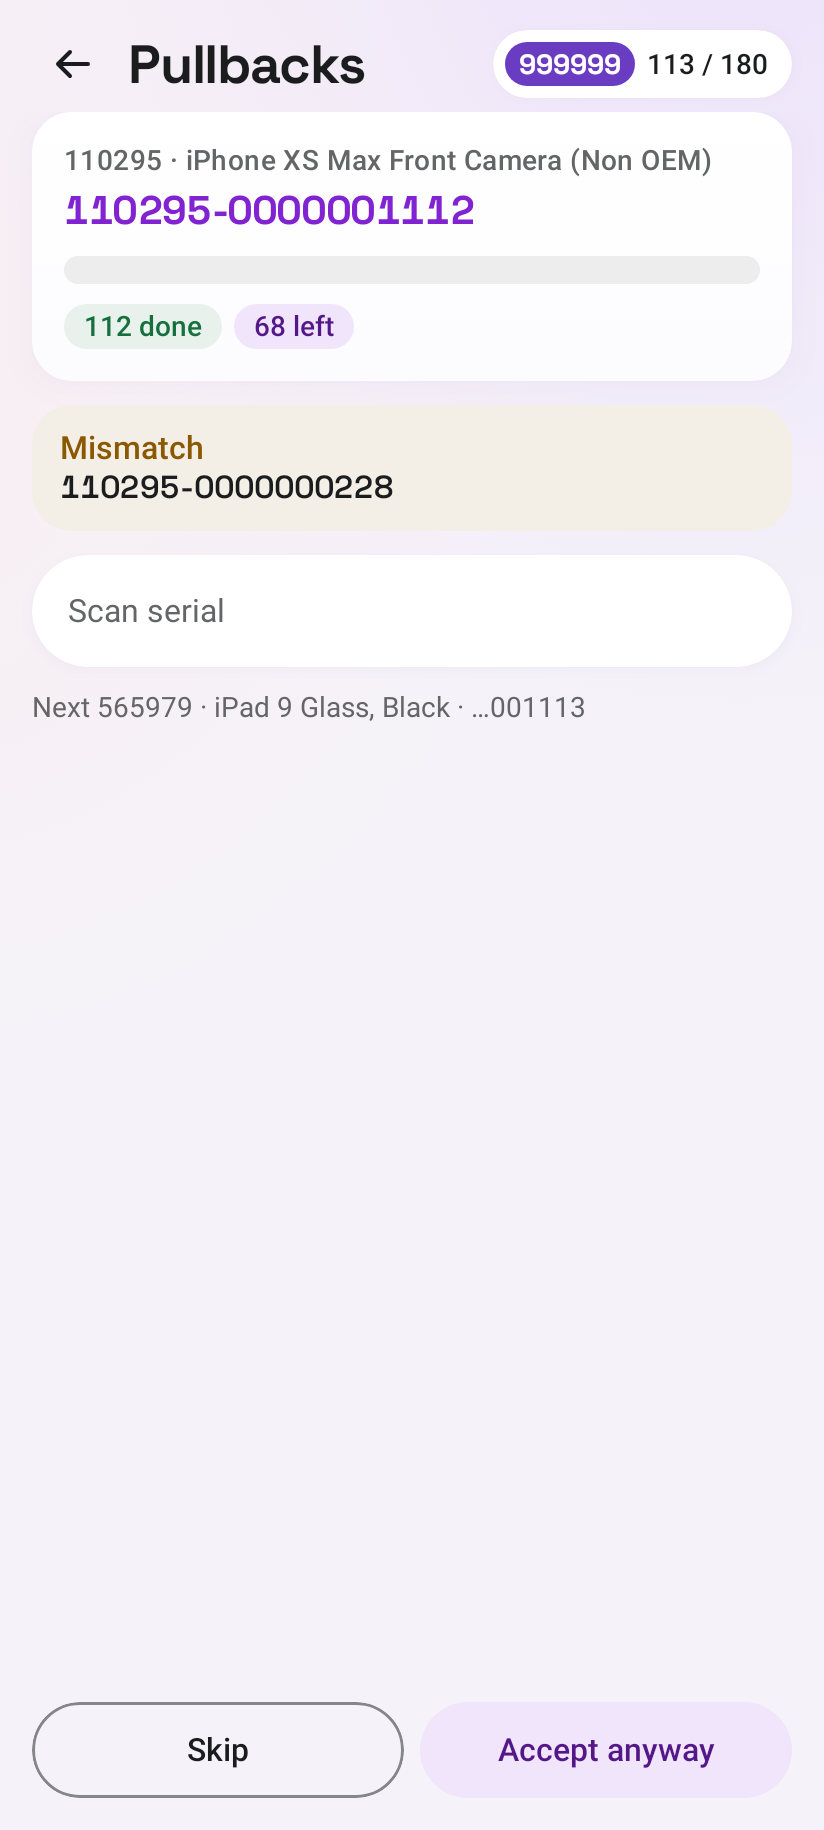
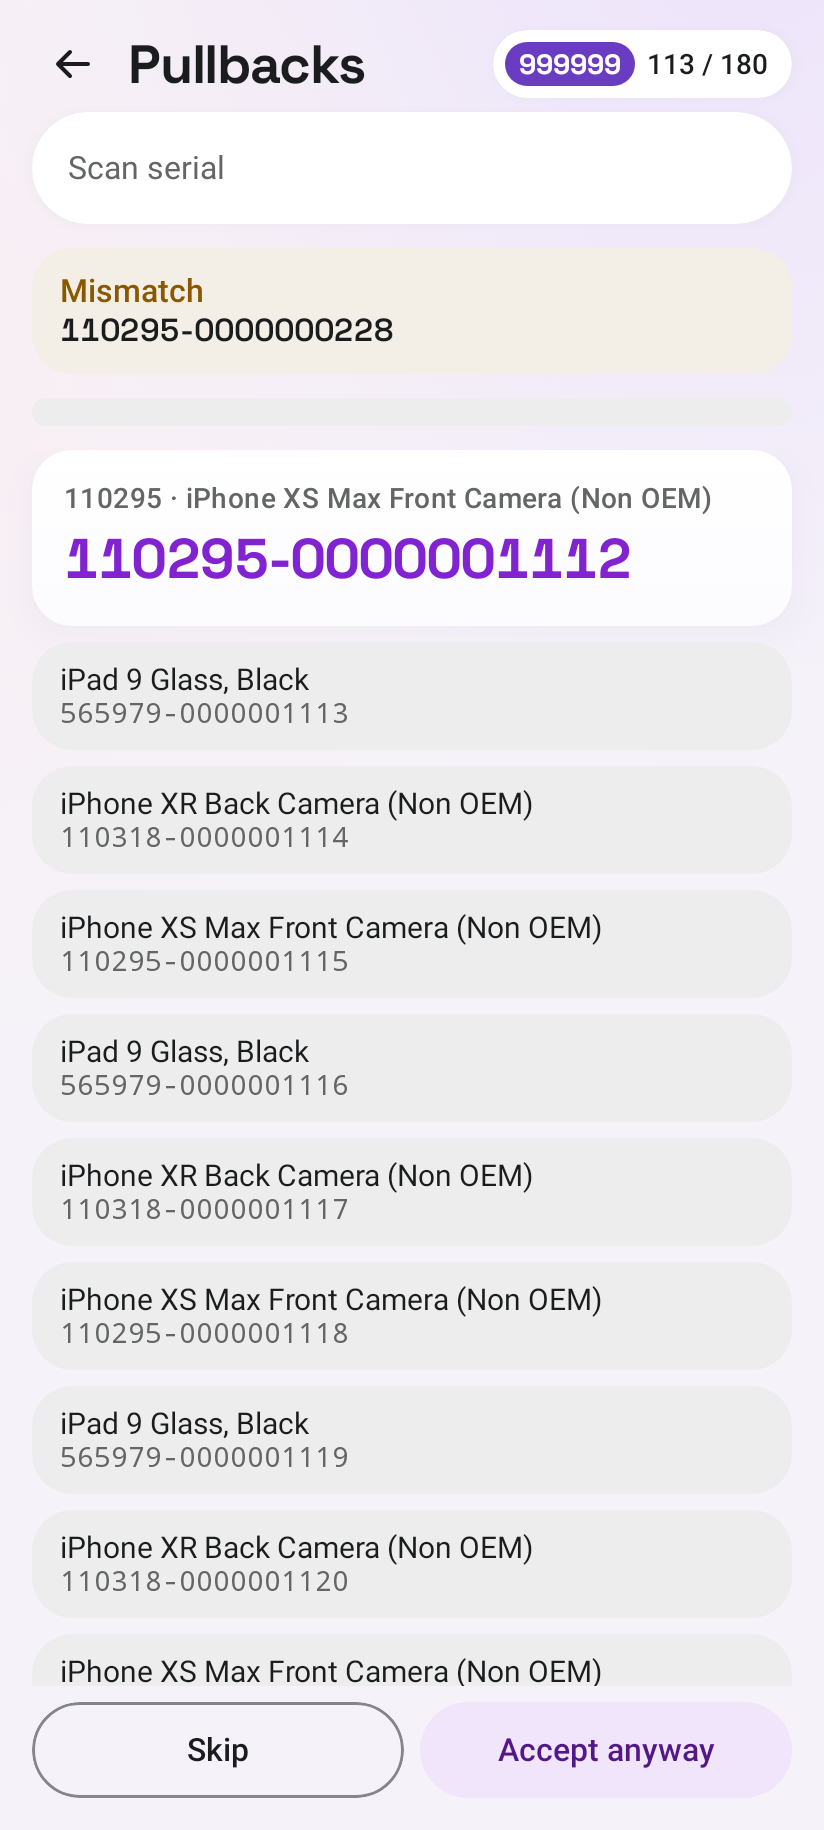
Linkpearl 1.2.3: Pullbacks scans down a snapping list
The scan screen lists the whole run in file order: the current item is
the large row at the top, the next ones below, and pulling down shows the
ones already scanned. Rows snap; after a good scan the camera rests a
quarter second while the row ticks green and the list scrolls to the
next item.

Claude-Session: https://claude.ai/code/session_01BARgE4WkzmvbXTzFB6QbQ7

diff --git a/android/app/src/main/kotlin/dev/aethernet/linkpearl/feature/pullbacks/PullbackScreen.kt b/android/app/src/main/kotlin/dev/aethernet/linkpearl/feature/pullbacks/PullbackScreen.kt
@@ -1,5 +1,19 @@
 package dev.aethernet.linkpearl.feature.pullbacks
 
+import androidx.compose.animation.animateColorAsState
+import androidx.compose.animation.core.Spring
+import androidx.compose.animation.core.animateFloatAsState
+import androidx.compose.animation.core.spring
+import androidx.compose.animation.core.tween
+import androidx.compose.foundation.gestures.snapping.SnapPosition
+import androidx.compose.foundation.gestures.snapping.rememberSnapFlingBehavior
+import androidx.compose.foundation.layout.PaddingValues
+import androidx.compose.foundation.layout.size
+import androidx.compose.foundation.lazy.LazyColumn
+import androidx.compose.foundation.lazy.itemsIndexed
+import androidx.compose.foundation.lazy.rememberLazyListState
+import androidx.compose.material3.Icon
+import androidx.compose.ui.graphics.graphicsLayer
 import androidx.compose.foundation.background
 import androidx.compose.foundation.border
 import androidx.compose.foundation.clickable
@@ -96,14 +110,18 @@ fun PullbackScreen(
     val navInset = LocalNavInset.current
     Column(modifier.fillMaxSize()) {
         Header(state, actions.onBack)
-        Column(
+        if (state is PbUi.Scanning) {
+            Column(Modifier.weight(1f).fillMaxWidth().padding(horizontal = LpSpacing.Gutter), verticalArrangement = Arrangement.spacedBy(LpSpacing.M)) {
+                ScanBody(state.s, actions, camera)
+            }
+        } else Column(
             Modifier.weight(1f).fillMaxWidth().verticalScroll(rememberScrollState()).padding(horizontal = LpSpacing.Gutter).padding(bottom = LpSpacing.M),
             verticalArrangement = Arrangement.spacedBy(LpSpacing.M),
         ) {
             when (state) {
                 is PbUi.Start -> StartBody(state, actions)
                 is PbUi.Stores -> StoresBody(state, actions)
-                is PbUi.Scanning -> ScanBody(state.s, actions, camera)
+                is PbUi.Scanning -> {}
                 is PbUi.Done -> DoneBody(state.s)
             }
         }
@@ -211,45 +229,87 @@ private fun ColumnScope.StoresBody(state: PbUi.Stores, actions: PullbackActions)
 }
 
 // ---------------------------------------------------------------- scanning
+/** After a good scan the camera rests this long while the row ticks and the list moves on. */
+internal const val SCAN_REST_MS = 250L
+
+/**
+ * The run as a list in file order, snapping row by row: the current item is the large row at the top, the next ones below it, and
+ * pulling down shows the ones already scanned. After each scan the list scrolls smoothly to the new current item.
+ */
 @Composable
 private fun ColumnScope.ScanBody(s: PbSession, actions: PullbackActions, camera: (@Composable (String, (String) -> Unit) -> Unit)?) {
     val c = Lp.colors
-    val it = s.current ?: return
+    val cur = s.current ?: return
+    val i = s.idx ?: return
     val haptics = rememberHaptics()
     var typing by remember { mutableStateOf(camera == null) }
+    var restUntil by remember { mutableStateOf(0L) }
     LaunchedEffect(s.history.size, s.msg) {
         when {
             s.msg == PbMsg.Mismatch -> haptics.reject()
-            s.lastOk -> haptics.confirm()
+            s.lastOk -> { haptics.confirm(); restUntil = System.currentTimeMillis() + SCAN_REST_MS }
         }
     }
     if (camera != null && !typing) {
-        Box(Modifier.fillMaxWidth().height(210.dp).clip(LpShapes.Card)) { camera(it.serial, actions.onScan) }
-    }
-    LpCard {
-        Text(listOf(it.skuText, it.description).filter { t -> t.isNotBlank() }.joinToString(" · "), style = LpType.Label, color = c.soft, maxLines = 2, overflow = TextOverflow.Ellipsis)
-        Text(it.serial, style = LpType.ValueMedium, color = c.accText, modifier = Modifier.padding(top = 4.dp).semantics { contentDescription = "Expected serial ${it.serial}" })
-        ProgressBar((s.total - s.pending).toFloat() / s.total.coerceAtLeast(1), c.acc, Modifier.fillMaxWidth().padding(top = 10.dp))
-        FlowRow(Modifier.padding(top = 10.dp), horizontalArrangement = Arrangement.spacedBy(6.dp), verticalArrangement = Arrangement.spacedBy(6.dp)) {
-            LpChip("${Fmt.count(s.done)} done", tone = Tone.Good)
-            LpChip("${Fmt.count(s.pending)} left", tone = Tone.Accent)
-            if (s.count(PbStatus.Skipped) > 0) LpChip("${Fmt.count(s.count(PbStatus.Skipped))} skipped", tone = Tone.Warn)
+        Box(Modifier.fillMaxWidth().height(180.dp).clip(LpShapes.Card)) {
+            camera(cur.serial) { code -> if (System.currentTimeMillis() >= restUntil) actions.onScan(code) }
         }
     }
+    if (typing || camera == null) ScanField(s.history.size to s.msg, actions.onScan)
     when (s.msg) {
         PbMsg.Mismatch -> Message("Mismatch", s.last, bad = true)
         PbMsg.Empty -> Message("Empty scan", null)
         PbMsg.Reverted -> Message("Reverted", null)
         null -> {}
     }
-    if (typing || camera == null) ScanField(s.history.size to s.msg, actions.onScan)
-    s.next?.let { nx ->
-        Text("Next ${nx.skuText} · ${nx.description} · …${nx.serial.takeLast(6)}", style = LpType.Caption, color = c.soft, maxLines = 2, overflow = TextOverflow.Ellipsis)
+    Row(Modifier.fillMaxWidth(), verticalAlignment = Alignment.CenterVertically, horizontalArrangement = Arrangement.spacedBy(10.dp)) {
+        ProgressBar((s.total - s.pending).toFloat() / s.total.coerceAtLeast(1), c.acc, Modifier.weight(1f))
+        if (s.count(PbStatus.Skipped) > 0) LpChip("${Fmt.count(s.count(PbStatus.Skipped))} skipped", tone = Tone.Warn)
+        if (camera != null) LpIconButton(if (typing) LpIcons.Camera else LpIcons.Keyboard, if (typing) "Camera" else "Type", { typing = !typing })
     }
-    if (camera != null) {
-        Row(Modifier.fillMaxWidth(), horizontalArrangement = Arrangement.End) {
-            LpIconButton(if (typing) LpIcons.Camera else LpIcons.Keyboard, if (typing) "Camera" else "Type", { typing = !typing })
+    val list = rememberLazyListState(initialFirstVisibleItemIndex = i)
+    LaunchedEffect(i) { list.animateScrollToItem(i) }
+    LazyColumn(
+        Modifier.weight(1f).fillMaxWidth(),
+        state = list,
+        flingBehavior = rememberSnapFlingBehavior(list, SnapPosition.Start),
+        verticalArrangement = Arrangement.spacedBy(8.dp),
+        contentPadding = PaddingValues(bottom = 400.dp),
+    ) {
+        itemsIndexed(s.items, key = { k, _ -> k }) { k, item ->
+            if (k == i) CurrentRow(item) else ItemRow(item)
         }
+    }
+}
+
+@Composable
+private fun CurrentRow(it: PbItem) {
+    val c = Lp.colors
+    LpCard {
+        Text(listOf(it.skuText, it.description).filter { t -> t.isNotBlank() }.joinToString(" · "), style = LpType.Label, color = c.soft, maxLines = 2, overflow = TextOverflow.Ellipsis)
+        Text(it.serial, style = LpType.Value, color = c.accText, modifier = Modifier.padding(top = 4.dp).semantics { contentDescription = "Expected serial ${it.serial}" })
+    }
+}
+
+/** A row that isn't the current one; a scanned row turns green with a tick that springs in. */
+@Composable
+private fun ItemRow(it: PbItem) {
+    val c = Lp.colors
+    val done = it.status == PbStatus.Matched || it.status == PbStatus.Overridden
+    val bg by animateColorAsState(
+        when { done -> c.goodBg; it.status == PbStatus.Skipped -> c.warnBg; else -> c.surf3 }, tween(SCAN_REST_MS.toInt()), label = "row",
+    )
+    val tick by animateFloatAsState(if (done) 1f else 0f, spring(dampingRatio = 0.5f, stiffness = Spring.StiffnessMedium), label = "tick")
+    Row(
+        Modifier.fillMaxWidth().clip(LpShapes.Card).background(bg).padding(horizontal = 14.dp, vertical = 10.dp),
+        verticalAlignment = Alignment.CenterVertically, horizontalArrangement = Arrangement.spacedBy(10.dp),
+    ) {
+        Column(Modifier.weight(1f)) {
+            Text(it.description, style = LpType.Small, color = if (done) c.soft else c.fg, maxLines = 1, overflow = TextOverflow.Ellipsis)
+            Text(it.serial, style = LpType.Caption.copy(fontFamily = FontFamily.Monospace), color = c.soft, maxLines = 1, overflow = TextOverflow.Ellipsis)
+        }
+        if (tick > 0.01f) Icon(LpIcons.Check, "Scanned", tint = c.good, modifier = Modifier.size(22.dp).graphicsLayer { scaleX = tick; scaleY = tick })
+        else if (it.status == PbStatus.Skipped) Text("Skipped", style = LpType.Label, color = c.warn)
     }
 }
 
